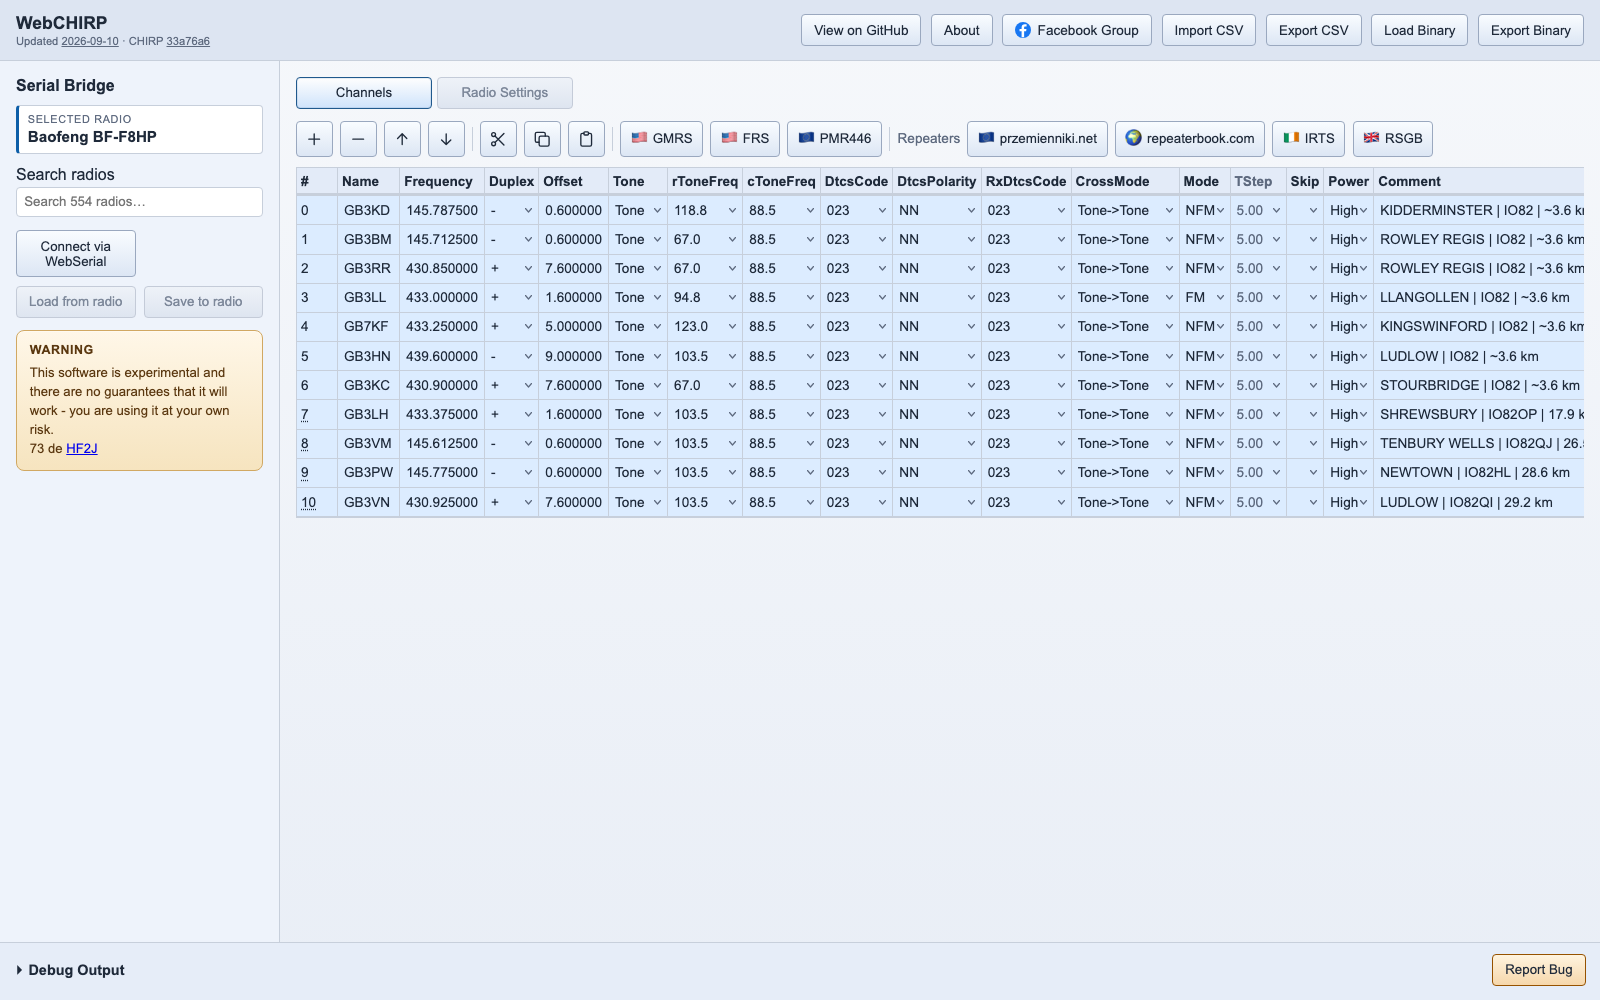
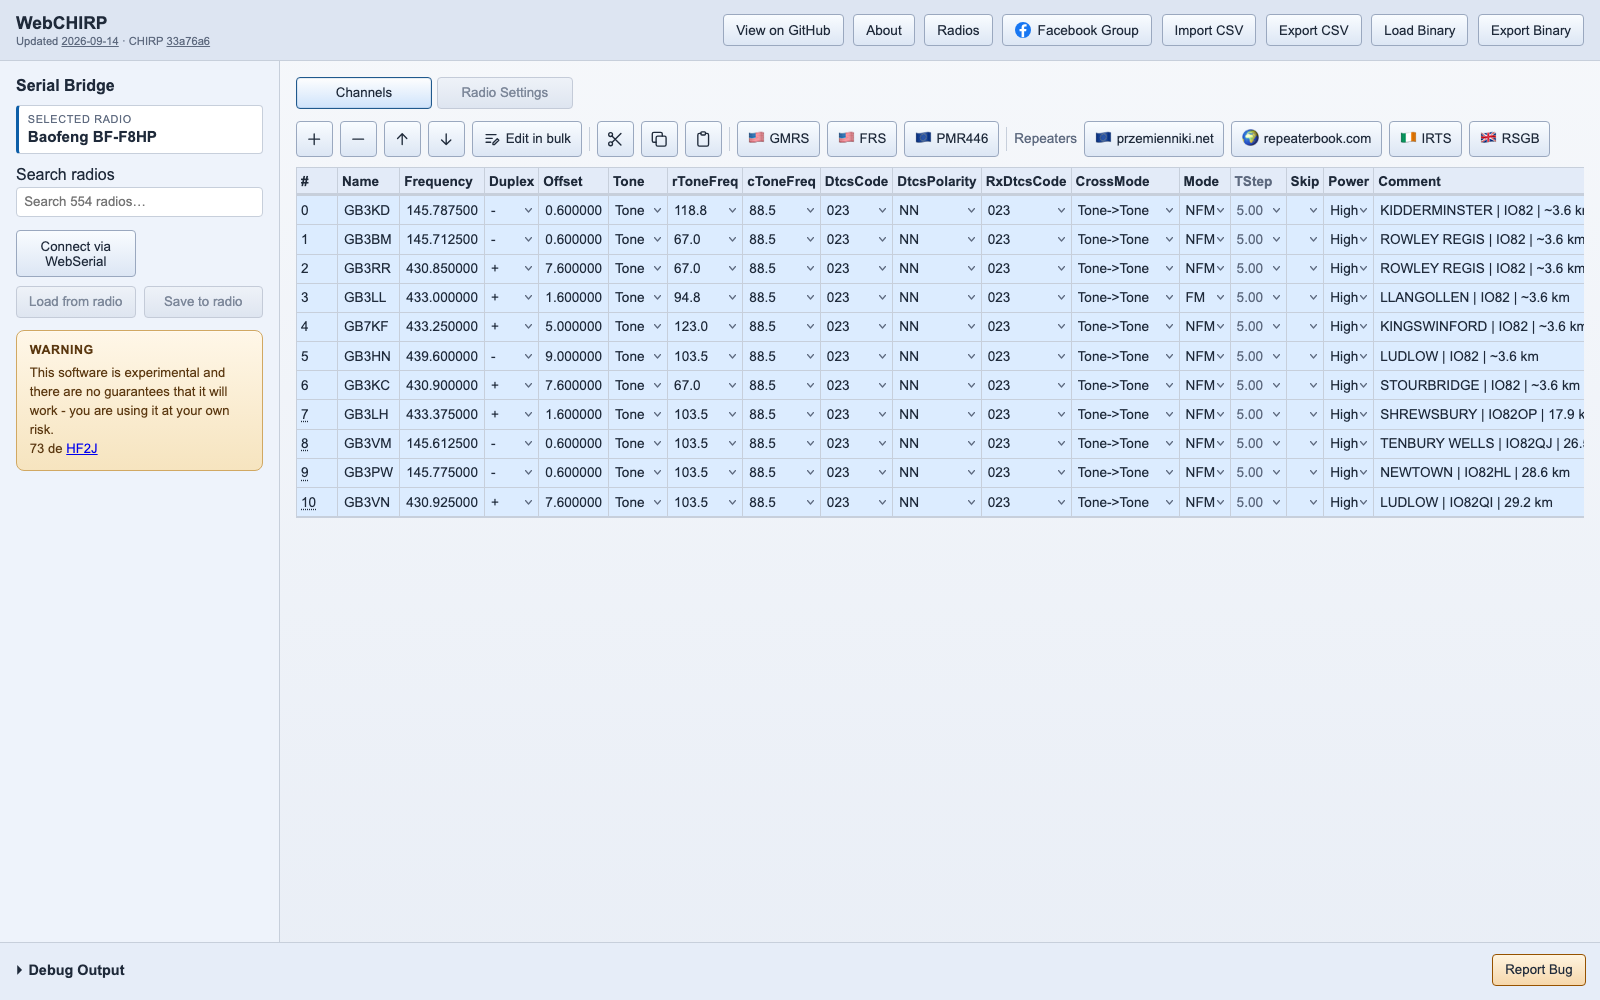
Write the 2026-09-14 release notes and refresh the screenshots
Adds a dated section covering every PR merged since 2026-09-10 (#165-#176),
one line each: the city autocomplete and map preview in the repeater query
modal, the bulk channel editor, the static per-model Baofeng pages, and the
four fixes behind them -- column schema from the cached image, the half-typed
cell value, the clearable Frequency cell, and the repeater import power level.

Regenerates images/screenshot.png, images/screenshot-for-opengraph.png and
web/images/social-preview.png against the current app, with RSGB channels
around IO82MM. The version line under the title reads the newest heading
here, so it now shows 2026-09-14.

Consolidates FINDINGS.md. PR #174 landed with no record of why web/radios/,
web/sitemap.xml and web/robots.txt are gitignored, which is the one thing
about them a reader cannot recover from the code: both workflows regenerate
them before they test or deploy, so a committed copy is never the one served,
and the set grows with the catalog. The new entry names the two tracked
inputs, says that nothing on a page is invented, and explains why the suite
runs the real generator against a throwaway tree rather than reading pages a
fresh checkout does not have. Its testable claims go in the section's
Pinned by tests list.

Checked the rest for drift: every file path named in FINDINGS.md still
resolves, the CHIRP pin in the header is still 33a76a63, and the preview
figures in the repeater-query section still match the code (600 ms debounce,
[…]

Changed region(s): [[0.2812, 0.124, 0.9688, 0.155], [0.4375, 0.0, 0.5938, 0.062]]

diff --git a/FINDINGS.md b/FINDINGS.md
@@ -190,11 +190,13 @@ holds against the pin the app ships.
 - **pages-deploy-and-cache-window** (2026-07-22, trimmed 2026-08-07): Pages deploys via `.github/workflows/pages.yml` from `dist/`, HTTPS enforced (Web Serial/WebUSB require a secure context). **The live host is `https://codeplug.org/`**, named in `./CNAME` — which `scripts/retain-deployed-assets.mjs` reads rather than taking a hostname argument, because the two drifted silently for a week once. GitHub Pages serves everything with a fixed, non-configurable `Cache-Control: max-age=600` + ETag (Fastly), creating a ≤10-minute post-deploy window where a stale `index.html` can 404 on old content-hashed asset names; the mitigation is to fetch the deployed `asset-manifest.json` and carry the previous generation of hashed assets into the new artifact, chained via `retained-assets.json` with a 7-day max age. Heavy payloads (Pyodide, CHIRP sources) come from jsDelivr with long cache lifetimes, not Pages.
 - **build-dist-hashes-dependency-first** (2026-09-08, issue #114): a content-hashed URL is only worth anything if it names one set of bytes forever, and until 2026-09-08 `scripts/build-dist.mjs` hashed and renamed each `.js/.css/.py` file and only *then* rewrote the asset references inside it — so every name was the digest of bytes that were never served. A dependency-only edit changed an importer's bytes while leaving its URL alone, and the failure is invisible within any single build: it needs two deploys and a cache. A client holding the cached importer keeps requesting a dependency name the new deploy no longer emits, which is a **404 on a module import** — a blank app, not a stale one — and per **pages-deploy-and-cache-window** the headers that would shorten that window cannot be set here. The build now walks the reference graph with Tarjan's SCC algorithm and names each asset after its *rewritten* bytes, dependencies first. Two consequences: an import cycle has no fixed point (each member's bytes name the others), so its members share one digest of the whole group and a change to any member renames all of them — the only case where a name is not the digest of its own content, which is why `retain-deployed-assets.mjs` still gates on the HTTP status rather than re-deriving the name. And the dependency graph is now produced by the rewrite's own code path, so a reference the rewrite would not make cannot become an edge either.
 - **build-dist-rewrites-are-textual** (2026-08-03, widened 2026-08-07, narrowed 2026-09-08): `scripts/build-dist.mjs` finds references by text rather than by parsing, but since 2026-09-08 each match is anchored on path boundaries — neither neighbour may be `[\w./-]`. That retires the trap this entry used to lead with: a comment reading "see web/js/analytics.js" used to ship as "see web/js/analytics.c6e8292118.js", because `/js/analytics.js` matched inside it, and `./analytics.js` likewise matched inside `../analytics.js`. Harmless-looking while it only damaged prose; once the same matching fed a dependency graph it welded unrelated modules into fake import cycles, which is how it was found. Still textual, so a string spelled *exactly* like a reference is rewritten wherever it appears — which is why the convention is that prose names a module by its **canonical repo-root path** (`web/js/ui/format.js`), never dist-relative (`./js/ui/format.js`, indistinguishable from a real import) and never partial (`ui/format.js`, which resolves from nowhere and hides renames). The other half is unchanged and still bites: a file outside `REWRITE_EXTS` (`.html/.js/.css`) is copied verbatim, so `manifest.webmanifest` is never rewritten and anything it points at must be an unhashed path or it will 404 in `dist/` — which is why the icons live in `web/images/`. And `.mjs` is in **neither** set: the shared logic modules (`call-queue.mjs`, `python-sources.mjs`, `image-metadata.mjs`, `runtime-bootstrap.mjs`) ship unhashed and unrewritten, so they get no cache-busting on a host where **pages-deploy-and-cache-window** says the headers cannot be set — verified 2026-09-06, when a `build:dist` emitted `runtime-rpc.<hash>.js` next to a bare `runtime-bootstrap.mjs`. Harmless only because every `.mjs` here is a leaf that imports nothing; the day one imports a hashed `.js` it will 404 in `dist/`, so keep them import-free or add the extension to both sets.
+- **model-pages-are-build-output-not-source** (2026-09-13): `web/radios/` (55 Baofeng pages plus a vendor index), `web/sitemap.xml` and `web/robots.txt` are written by `scripts/build-model-pages.mjs` (`npm run build:pages`, run by both `build:dist` and `dev`) and are **gitignored on purpose** -- both workflows regenerate them before they test or deploy, so a committed copy is never the one served, and the set grows with the catalog: widening `VENDORS` in the generator from Baofeng to all 554 catalogued radios, or bumping the CHIRP submodule, would otherwise bury every real diff under a page per radio. The two *inputs* are tracked: `web/radio-catalog.json` says which radios exist, `radio-features.json` (written at the repo root by `scripts/build-catalog.mjs`, deliberately outside `web/` so no browser ever fetches it) says what each one advertises. Nothing on a page is invented: a fact with no driver behind it is omitted, and a radio whose driver describes it too thinly gets no page. Because the pages are absent from a fresh checkout, a test cannot read them off disk -- `tests/build/model-pages.mjs` runs the real generator against a throwaway tree instead, the same shape as `tests/build/build-dist.mjs`.
 
 *Pinned by tests:*
 - A hashed URL never names two builds' different bytes, every name is the digest of what is served under it, an import cycle gets one shared name, prose that merely looks like a path is left alone, and every module path named in a comment — across `web/`'s JS, `.mjs`, CSS, HTML and Python, docstrings included — is canonical and still resolves — `tests/build/build-dist.mjs`.
 - Asset retention takes its host from `CNAME`, fails the build on a host serving nothing, and still exits 0 on a real first deploy — `tests/build/retain-assets.mjs`.
 - Every file the manifest and the install flow need survives into `dist/`, and each icon's real IHDR size matches its declared `sizes` — `tests/build/web-manifest.mjs`, `REQUIRED_WEB_FILES` in `build-dist.mjs`.
+- Every page carries the tags a search result is built from and is canonical to its own URL, its copy says what its own driver says rather than a shared default, its call to action names a radio the catalog still has, the sitemap and `robots.txt` list exactly the pages written, the app links the vendor index so a crawler can reach them, and the build fails on two radios colliding on one filename or on a `radio-features.json` from another CHIRP revision -- `tests/build/model-pages.mjs`.
 
 ## PWA / install
 

diff --git a/RELEASE_NOTES.md b/RELEASE_NOTES.md
@@ -1,5 +1,14 @@
 # Release Notes
 
+## 2026-09-14
+- Every repeater query form now opens with a City/Locality box that fills the position from a gazetteer, and the modal's map previews the repeaters the current filters would actually return — in range solid, just outside dimmed — so a search that would find nothing is visible before it is run (#171).
+- Added an Edit in bulk button to the channel toolbar: one dialog writes the same value to every selected channel, across the grid's editable columns and the driver's own per-channel extras, with each field applied only when its box is ticked (#176, closes #146).
+- The site now carries a static page per Baofeng radio, 55 of them plus a vendor index, describing each model from its own driver — channel count, name length, bands, modes, power levels, and the rebadges it covers — with a link that opens the app with that radio already selected (#174).
+- Drivers that read their capabilities out of the codeplug now describe the grid correctly: a Retevis RT98 download no longer keeps a High power level its own dropdown does not list, and re-selecting the radio no longer blanks it (#165, fixes #86).
+- Typing a frequency while the mouse rests over the grid works again: a scroll or resize re-render no longer commits the half-typed value and writes the normalised old one back over the caret (#172, fixes #94).
+- Deleting a Frequency cell now leaves it blank, which is how a memory is erased on upload, instead of snapping back to the previous frequency (#166, fixes #93).
+- Repeaters imported from przemienniki.net, RepeaterBook and IRTS now get the radio's highest power level like RSGB imports already did, instead of whatever the driver lists first — Low on roughly half of CHIRP's drivers (#173).
+
 ## 2026-09-10
 - The channel Actions dropdown is gone: insert/remove/move and cut/copy/paste are now icon buttons on the toolbar itself, and the three band plans and four repeater directories are flagged buttons whose tooltips say what each import contains (#164).
 - The repeater query modal now draws the search position and range filter on a map that can be dragged to move the position, so a mistyped coordinate or a locator from the wrong square is visible before the query runs (#163).
